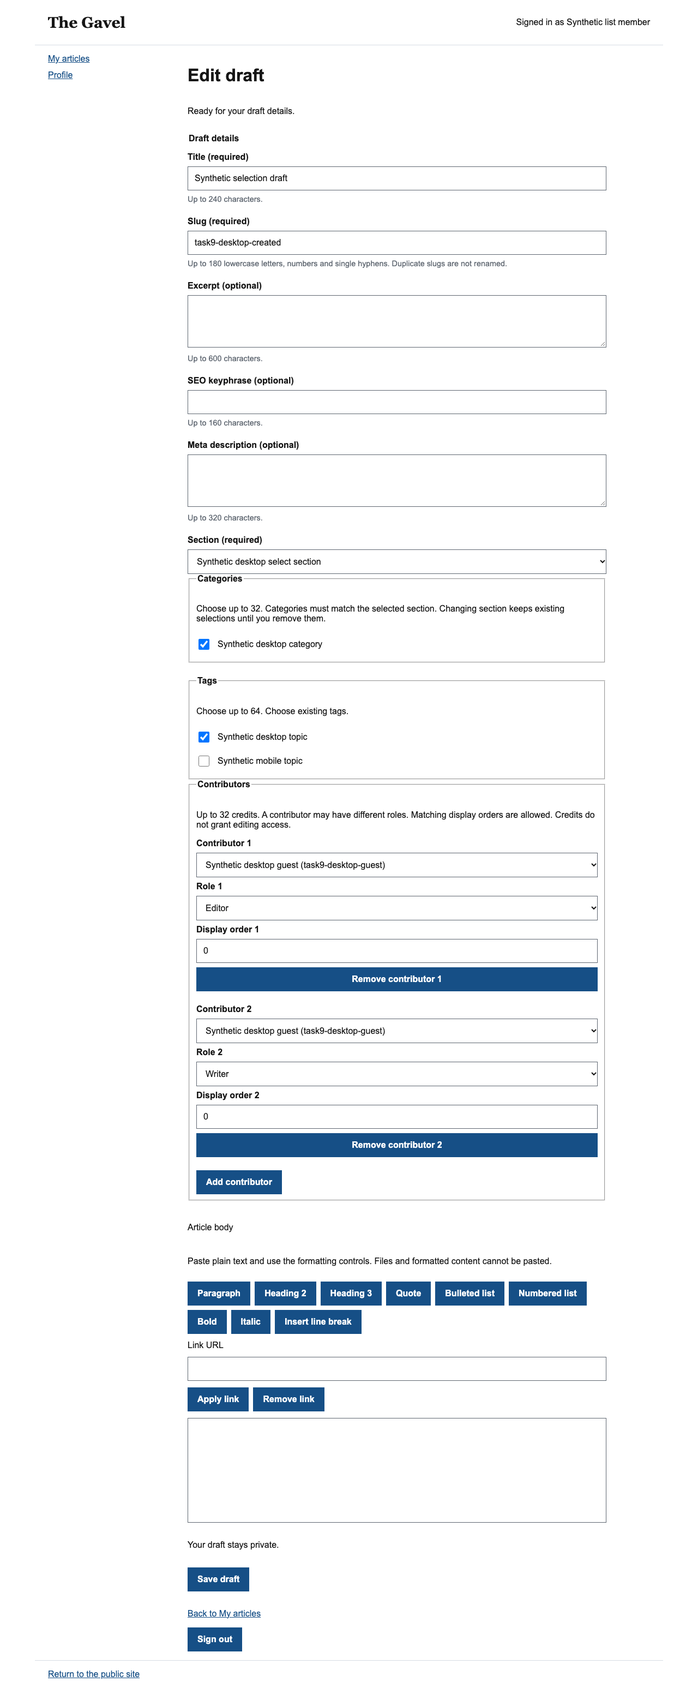
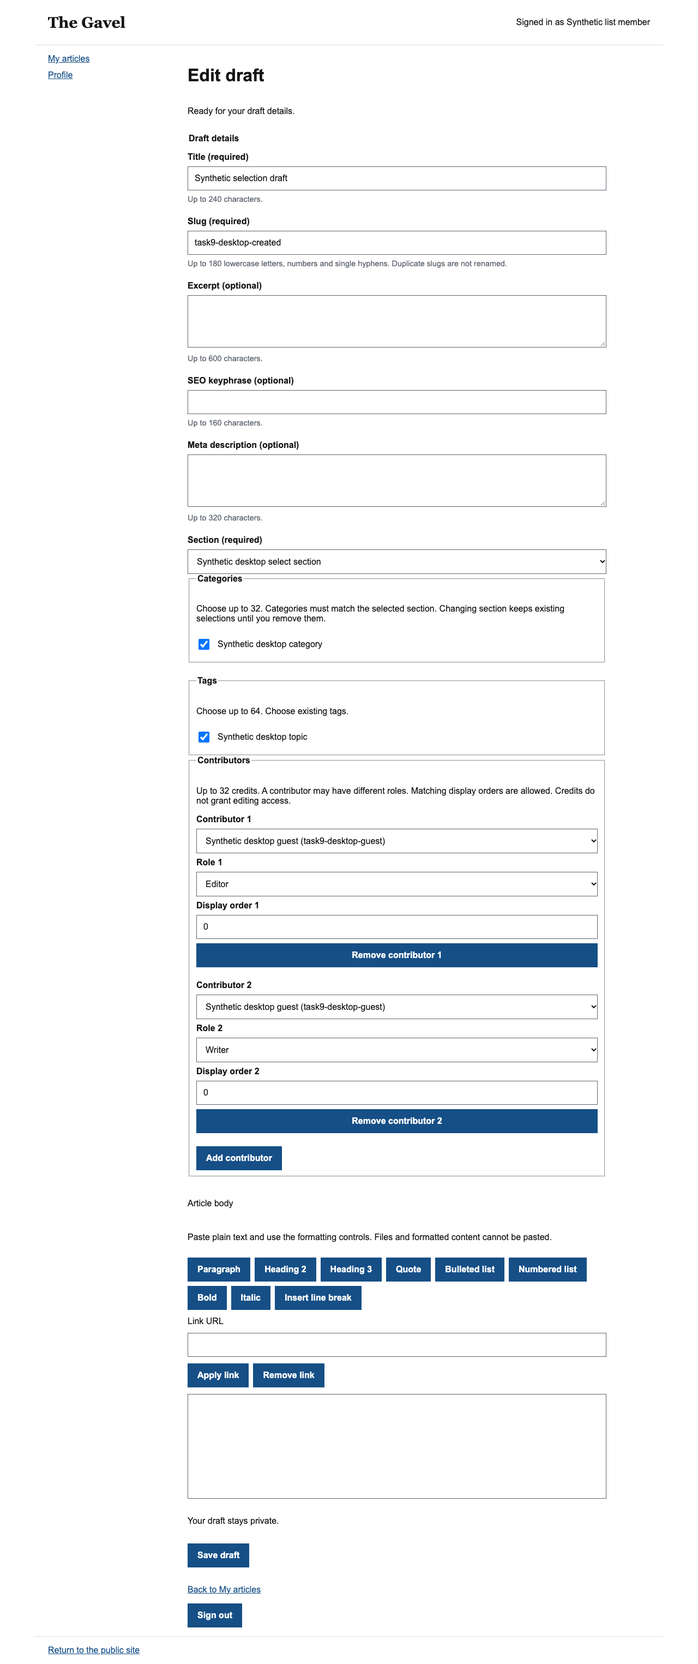
docs: record draft selection behavior and verification

Changed region(s): [[0.25, 0.0623, 0.875, 0.841], [0.2812, 0.9033, 0.375, 0.9656], [0.0625, 0.0311, 0.125, 0.0623]]

diff --git a/docs/superpowers/plans/2026-10-27-task-nine-draft-selections.md b/docs/superpowers/plans/2026-10-27-task-nine-draft-selections.md
@@ -10,7 +10,7 @@
 
 **Spec:** [Accepted private-draft contract](../specs/2026-10-22-private-draft-workflow-design.md); [parent plan Task 9](2026-10-22-phase-three-private-drafts.md#task-9-taxonomy-and-contributor-selection).
 
-**Baseline:** GitHub main `ecf3d62`, including merged PR #23/editor head `01f1d9b`. Isolated worktree `/private/tmp/the-gavel-task9`, branch `feat/draft-association-selectors`. Planning only; implementation and fresh baseline tests have not started.
+**Baseline:** GitHub main `ecf3d62`, including merged PR #23/editor head `01f1d9b`. Isolated worktree `/private/tmp/the-gavel-task9`, branch `feat/draft-association-selectors`. Implementation and local verification complete; owner handoff review and hosted CI remain outstanding. See [verification](../../testing.md#phase-3-task-9-draft-association-selection).
 
 ## Global constraints
 
@@ -44,10 +44,10 @@ Routine implementation choices: no custom combobox; labels distinguish duplicate
 
 **Interfaces:** Export `loadDraftCategories(client:SupabaseClient<Database>,sectionId:string):Promise<DraftOptions["categories"]>` from the options owner and reuse it inside `loadDraftOptions`. Export server action `getDraftCategoriesAction(sectionId:string):Promise<{ok:true;categories:DraftOptions["categories"]}|{ok:false;code:"invalid_input"|"unavailable"}>`. Independently invoke the existing active-membership guard and cookie-scoped no-store client. Preserve auth redirects; return safe errors for ordinary read failures.
 
-- [ ] Write failing tests for invalid UUID, independent access guard, active category/parent filters, pagination beyond the API cap, safe query failures and unchanged initial no-section behavior.
-- [ ] Run `pnpm test -- src/lib/articles/draft-options src/lib/articles/draft-category-action`; expect failures for missing exports/action.
-- [ ] Extract the existing category query into the helper, implement the guarded action and run the same command; expect PASS.
-- [ ] Commit the boundary and tests together; document its read-only contract in `docs/api-contracts.md`.
+- [x] Write failing tests for invalid UUID, independent access guard, active category/parent filters, pagination beyond the API cap, safe query failures and unchanged initial no-section behavior.
+- [x] Run `pnpm test -- src/lib/articles/draft-options src/lib/articles/draft-category-action`; expect failures for missing exports/action.
+- [x] Extract the existing category query into the helper, implement the guarded action and run the same command; expect PASS.
+- [x] Commit the boundary and tests together; document its read-only contract in `docs/api-contracts.md`.
 
 ## Work package 2: controlled selection fields
 
@@ -55,10 +55,10 @@ Routine implementation choices: no custom combobox; labels distinguish duplicate
 
 **Interfaces:** `DraftTaxonomyFields({draft,options,errors,onChange})` consumes DraftInput, DraftOptions, Record<string,string> and `(next:DraftInput)=>void`. `DraftContributorFields({value,options,error,onChange})` consumes DraftInput["contributors"], DraftOptions["contributors"], optional error and complete-value change callback. `draftSelectionErrors(draft:DraftInput,options:DraftOptions):Record<string,string>` provides usability checks; existing validators/RPC remain authoritative.
 
-- [ ] Write failing tests for add/remove, exact caps and one over, duplicate IDs/profile-role pairs, wrong-section/unavailable selections, multiple roles, guest profiles, tied/invalid integer order and empty catalogs. Assert untouched fields/credits remain identical.
-- [ ] Run focused tests; expect missing modules/components to fail before implementation.
-- [ ] Implement native fieldsets/legends, labels, hints, associated errors and explicit removal controls; generic unavailable labels reveal no hidden catalog data. Add operations stop at caps; removal remains possible.
-- [ ] Run `pnpm test -- src/components/dashboard/draft-taxonomy-fields src/components/dashboard/draft-contributor-fields src/lib/articles/draft-selections`; expect PASS. Commit in focused field/helper increments.
+- [x] Write failing tests for add/remove, exact caps and one over, duplicate IDs/profile-role pairs, wrong-section/unavailable selections, multiple roles, guest profiles, tied/invalid integer order and empty catalogs. Assert untouched fields/credits remain identical.
+- [x] Run focused tests; expect missing modules/components to fail before implementation.
+- [x] Implement native fieldsets/legends, labels, hints, associated errors and explicit removal controls; generic unavailable labels reveal no hidden catalog data. Add operations stop at caps; removal remains possible.
+- [x] Run `pnpm test -- src/components/dashboard/draft-taxonomy-fields src/components/dashboard/draft-contributor-fields src/lib/articles/draft-selections`; expect PASS. Commit in focused field/helper increments.
 
 ## Work package 3: form and route integration
 
@@ -66,20 +66,20 @@ Routine implementation choices: no custom combobox; labels distinguish duplicate
 
 **Interfaces:** Preserve existing DraftForm and command-hook props. Add section-choice coordination inside the form; seed categories from initial options. Metadata fields show an unavailable current section as a generic selected option. The edit route renders the form for valid canonical bodies even with unavailable associations; read-only/unsupported/not-found guards remain unchanged.
 
-- [ ] Write RED tests for changing section without category removal, deliberate removal/reselection, rapid A→B→A responses, load failure/retry, no false initial dirtiness, unavailable-ID repair, retained values after save rejection and complete save payload.
-- [ ] Cover pending/uncertain field locking, caps/errors linked from summary, keyboard access and no-section behavior. Block only new submissions while catalog/selection feedback is unresolved; uncertain retries must still replay the original command.
-- [ ] Implement category-loading state with stale-response protection and no automatic mutation of selections. Integrate controlled fields, pre-submit usability feedback and safe retry UI.
-- [ ] Run `pnpm test -- src/components/dashboard/draft-form src/components/dashboard/draft-metadata-fields 'src/app/(dashboard)/dashboard/articles/[id]/page.test.tsx'`; expect PASS. Commit focused integration changes.
+- [x] Write RED tests for changing section without category removal, deliberate removal/reselection, rapid A→B→A responses, load failure/retry, no false initial dirtiness, unavailable-ID repair, retained values after save rejection and complete save payload.
+- [x] Cover pending/uncertain field locking, caps/errors linked from summary, keyboard access and no-section behavior. Block only new submissions while catalog/selection feedback is unresolved; uncertain retries must still replay the original command.
+- [x] Implement category-loading state with stale-response protection and no automatic mutation of selections. Integrate controlled fields, pre-submit usability feedback and safe retry UI.
+- [x] Run `pnpm test -- src/components/dashboard/draft-form src/components/dashboard/draft-metadata-fields 'src/app/(dashboard)/dashboard/articles/[id]/page.test.tsx'`; expect PASS. Commit focused integration changes.
 
 ## Work package 4: real journeys and handoff
 
 **Files:** Create `e2e/drafts/draft-selections.spec.ts`; extend `e2e/support/draft-list-fixture/draft-list-fixture.ts` only as necessary; update affected README, component/security/API/testing documentation and the parent Task 9 checkboxes.
 
-- [ ] Add synthetic, local-only desktop/mobile create→select→save→reopen and edit→repair→save journeys. Include section mismatch preservation, failed save retention, guest/multiple-role/tied-order credits, credited-author-B denial and administrator active-selection rules. Deactivate a fixture reference after options load and assert safe rejection with retained input.
-- [ ] Run the new browser cases against a production build; inspect desktop/mobile screenshots and keyboard behavior. Preserve fixture fingerprints and the populated baseline; do not reset the shared database.
-- [ ] Run `pnpm format:check`, `pnpm lint`, `pnpm typecheck`, `pnpm test`, `pnpm test:db`, `pnpm db:types:check`, `pnpm supabase db lint`, `pnpm test:draft-contract`, `pnpm build`, and `pnpm test:e2e -- e2e/drafts`. Expect each exit 0; record actual counts and any unavailable environment requirements.
-- [ ] Run unfiltered `pnpm audit --prod --audit-level=high` and `pnpm audit --audit-level=high`, plus `git diff --check`. Expect no blocking finding or whitespace error.
-- [ ] Review the whole Task 9 change with a fresh reviewer, fix important findings with observed regression tests, record evidence and outstanding human security/screen-reader review. Do not claim hosted CI, create/merge a PR or begin Task 10 as part of this handoff.
+- [x] Add synthetic, local-only desktop/mobile create→select→save→reopen and edit→repair→save journeys. Include section mismatch preservation, failed save retention, guest/multiple-role/tied-order credits, credited-author-B denial and administrator active-selection rules. Deactivate a fixture reference after options load and assert safe rejection with retained input.
+- [x] Run the new browser cases against a production build; inspect desktop/mobile screenshots and keyboard behavior. Preserve fixture fingerprints and the populated baseline; do not reset the shared database.
+- [x] Run `pnpm format:check`, `pnpm lint`, `pnpm typecheck`, `pnpm test`, `pnpm test:db`, `pnpm db:types:check`, `pnpm supabase db lint`, `pnpm test:draft-contract`, `pnpm build` through Playwright’s configured webServer, and `pnpm exec playwright test` (all browser suites). Expect each exit 0; record actual counts and any unavailable environment requirements.
+- [x] Run unfiltered `pnpm audit --prod --audit-level=high` and `pnpm audit --audit-level=high`, plus `git diff --check`. Expect no blocking finding or whitespace error.
+- [x] Review the whole Task 9 change with a fresh reviewer, fix important findings with observed regression tests, record evidence and outstanding human security/screen-reader review. Do not claim hosted CI, create/merge a PR or begin Task 10 as part of this handoff.
 
 ## Acceptance and rollback
 

diff --git a/docs/api-contracts.md b/docs/api-contracts.md
@@ -1,6 +1,6 @@
 # API contracts
 
-Status: Foundation access/session interfaces, Phase 2 private content/history storage and Phase 3 private draft queries/actions implemented; association selectors, advanced reconciliation and publishing remain planned.
+Status: Foundation access/session interfaces, Phase 2 private content/history storage and Phase 3 private draft queries/actions implemented; draft association selectors are implemented; advanced reconciliation and publishing remain planned.
 
 ## Style and ownership
 
@@ -107,7 +107,7 @@ Task 5 implements the following interfaces in `src/lib/articles/`. The [accepted
 
 - `draft-queries/draft-queries.ts`: `getMyArticlesPage({cursor?,pageSize?}) -> ArticlePage` defaults to 20, accepts 1–50, and always filters the verified caller's profile, including administrators. Items contain only id/title/slug/status/sectionId/version/updatedAt. `nextCursor` is null or an opaque strict version-one UTC timestamp/UUID cursor ordered by `(updated_at DESC,id DESC)`, preserving database microseconds. The cursor supplies continuation, never authority.
 - `getDraftDetail(articleId) -> DraftDetailResult`: one embedded read loads the article and associations under RLS. Authors also receive an explicit owner filter; administrators retain their existing detail authority. The discriminant `kind` is `editable`, `readOnly`, `unsupportedContent` or `notFound`. Only editable results contain a validated `DraftInput`, articleId/version/updatedAt and unavailable selection IDs. Read-only results contain status only; unsupported results contain no stored body. Missing and RLS-hidden records share `notFound`.
-- `getDraftOptions(sectionId?) -> DraftOptions`: active sections, categories under the selected active parent, existing tags and active contributor profiles. Explicit active filters apply even to administrators. Catalogs use stable ordered 500-row pages below the API row cap. No section means no category choices. Existing unavailable selection IDs remain in detail results for deliberate removal; the form will provide generic labels without wider grants.
+- `getDraftOptions(sectionId?) -> DraftOptions`: active sections, categories under the selected active parent, existing tags and active contributor profiles. Explicit active filters apply even to administrators. Catalogs use stable ordered 500-row pages below the API row cap. No section means no category choices. Existing unavailable selection IDs remain in detail results for deliberate removal; the form provides generic labels without wider grants.
 - Queries run at request time with the existing active-membership guard and cookie-scoped publishable-key client. The server client explicitly forces `cache: "no-store"`. Malformed inputs and read failures throw bounded safe errors; membership redirects propagate unchanged.
 - `draft-actions/draft-actions.ts`: `createDraftAction(CreateDraftCommand)` and `saveDraftAction(SaveDraftCommand)` return `DraftWriteResult`. Strict envelopes reject unknown/protected fields before auth/RPC. Each accepted attempt uses verified current access and one user-scoped RPC with the caller's original request UUID. Missing/ineligible access returns `forbidden`; access/transport uncertainty or malformed responses return `unavailable`. No new UUID or automatic application retry is generated. Only checked result fields are returned, preserving replay/no-op metadata.
 - Confirmed success revalidates `/dashboard` and the private `/dashboard/articles/<id>` path only. If revalidation fails after commit, the confirmed receipt still returns; a static private diagnostic includes only the request UUID. Request-time reads remain authoritative on refresh.
@@ -116,7 +116,7 @@ Task 5 implements the following interfaces in `src/lib/articles/`. The [accepted
 
 ## Implemented draft form adapter
 
-Task 7 adds `draftMetadataErrors` beside `checkDraftInput`, sharing the same metadata constraints for form feedback. The strict full-payload validator and database functions remain authoritative. The new form maps exactly empty optional metadata to NULL, never silently trims/renames a slug, and creates only with NULL body/empty associations. It submits the existing `CreateDraftCommand`; no transport or database interface changed. Its optional article/version prop uses the existing save command for later route reuse.
+Task 7 adds `draftMetadataErrors` beside `checkDraftInput`, sharing the same metadata constraints for form feedback. The strict full-payload validator and database functions remain authoritative. The new form maps exactly empty optional metadata to NULL, never silently trims/renames a slug, and initially used NULL body/empty associations; Tasks 8–9 add body and association input through the same full-payload contract. It submits the existing `CreateDraftCommand`; no transport or database interface changed. Its optional article/version prop uses the existing save command for later route reuse.
 
 Basic UI command state retains the submitted payload/request UUID until a success is confirmed. A later authorization or other failure cannot resolve an earlier unknown result, so those retries remain locked to the original command. A first definitive failure allows correction/new UUID. Confirmed creation opens the private edit route and locks the form during that transition. Edit-in-flight/conflict reconciliation remains Task 10; see [current form boundaries](component-hierarchy.md#implemented-new-draft-form).
 
@@ -126,7 +126,7 @@ Task 8 implements `toEditorDocument(DraftDocument|null)` and `fromEditorDocument
 
 `DraftEditor({value,onChange,onError,disabled})` is client-only, controlled through canonical values, with no callback on initial NULL load. Delayed echoes of emitted document objects cannot replace newer native edits; fresh external document values still replace the editor. The controller snapshots its latest input at submit time, including updates before React renders. Body errors block form submission and remain associated with the textbox across rerenders. Plain-text paste validates the prospective complete body before dispatch; rich clipboard formats and drops are rejected explicitly. Native edits that fail conversion remain visible/unsaved until corrected and participate in basic unload warnings. No raw HTML import or renderer is exposed.
 
-`/dashboard/articles/[id]` consumes the existing guarded detail/options interfaces and reuses `DraftForm` with the current article/version. Confirmed creates open this route; confirmed edit saves update the controller's acknowledged version. Missing, read-only, unsupported and temporarily unavailable-selection states never expose a save operation. Server action/RPC signatures, direct-write denials and canonical limits are unchanged. Task 9 supplies selectors; Task 10 still supplies editable-in-flight/conflict/in-app-navigation reconciliation.
+`/dashboard/articles/[id]` consumes the existing guarded detail/options interfaces and reuses `DraftForm` with the current article/version. Confirmed creates open this route; confirmed edit saves update the controller's acknowledged version. Missing, read-only and unsupported states never expose a save operation. Task 9 allows deliberate repair of unavailable selections without discarding IDs. Existing draft mutation action/RPC signatures, direct-write denials and canonical limits are unchanged. Task 9 supplies selectors and usability validation; Task 10 still supplies editable-in-flight/conflict/in-app-navigation reconciliation.
 
 ## Implemented draft category choice action
 

diff --git a/docs/testing.md b/docs/testing.md
@@ -230,3 +230,21 @@ One full run timed out across new and unchanged flows on the busy local host. Da
 Review the [desktop editor](reviews/assets/phase-3-task8-desktop.png) and [mobile editor](reviews/assets/phase-3-task8-mobile.png). Original public-table/auth.identities fingerprints match after actor-scoped fixture/history/receipt/quota cleanup; only the known foundation synthetic auth.users metadata changes. No reset/migration was used. The lazy editor entry measured 377,675 raw/119,121 gzip JS bytes and 4,915 raw/1,461 gzip CSS bytes, excluding shared framework chunks.
 
 Human rich-content/security and screen-reader review remain outstanding. Only plain-text clipboard payloads are supported; other formats are explicitly blocked. Unavailable selections currently prevent editing until Task 9 supplies deliberate replacement/removal. Editable-in-flight/reconciliation and stronger SPA navigation warnings remain Task 10. No new manual tool installation, hosted project or real taxonomy decision was required. Real content still needs the existing active taxonomy/provider setup. Revert application/editor consumers to roll back; retain version-one canonical records and existing SQL controls, never broaden direct writes or destructively remove content/history.
+
+## Phase 3 Task 9: draft association selection
+
+Task 9 adds existing category/tag selectors and contributor profile/role/order fields to both create and edit. Unavailable selections remain visible until deliberate removal/replacement; section changes never silently clear categories. The guarded category-read action loads only active matching categories/parents, paginates and uses the existing no-store client. Stale responses cannot replace current choices. Pending/uncertain writes keep the existing exact-command lock/retry behavior.
+
+Fresh checks on Node 22.20.0 and pnpm 11.25.0:
+
+- `pnpm test`: 431 unit/component tests pass, including selection bounds, duplicate/missing/wrong-section IDs, guest/multiple-role/tied-order credits, stale category responses/retry, retained input and empty-active-section repair. Focused tests were run with `pnpm exec vitest run <paths>`; this pnpm version did not forward `pnpm test -- <paths>` as a filter.
+- `pnpm test:db`: all 1,075 SQL assertions pass, retaining role/ownership, association, active-reference and mutation denials.
+- `pnpm test:draft-contract`: all 216 canonical TypeScript/PostgreSQL parity tests pass. `pnpm db:types:check` matches; `pnpm supabase db lint` reports no schema errors.
+- `pnpm exec playwright test`: all 60 desktop/mobile cases pass with the original two workers and timeouts (58.2 seconds including configured production build/start). Ten new journeys cover create/save/reopen, guest/tied-role credits, deliberate section/category repair, author/admin post-load deactivation rejection with retained input, and credited non-owner denial. Keyboard checkbox interaction, focus traversal and mobile overflow checks pass. The existing keyboard journey now bounds traversal by actual form controls rather than assuming a fixed 20 Tab presses.
+- `pnpm format:check`, `pnpm lint`, `pnpm typecheck`, `git diff --check`, and unfiltered `pnpm audit --prod --audit-level=high` / `pnpm audit --audit-level=high` pass; both audits report no known vulnerabilities. Locked installation succeeded with `pnpm install --frozen-lockfile` after the offline store lacked a tarball.
+
+Fresh independent agent review found one Important issue: an empty active-section catalog disabled the entire repair form. An observed failing regression now proves metadata/removal controls remain usable while Save stays blocked. The full unit/browser suites pass after this fix. A separate observed regression corrected false unsaved warnings after canonical association sorting: successful locked saves acknowledge the canonical submitted input as well as its baseline. No unresolved agent-review findings remain; this does not substitute for human review.
+
+Inspect the [desktop selectors](reviews/assets/phase-3-task9-desktop.png) and [mobile selectors](reviews/assets/phase-3-task9-mobile.png). Images were visually inspected for responsive layout and readable native controls. Fixture setup uses reserved synthetic IDs, rejects collisions and cleans owned association rows before parent rows. No reset or migration was run. Before/after fingerprints cover public tables, private draft receipt/quota tables and auth.identities; only the established foundation auth.users test metadata is excluded. Private evidence remains in this task's ignored workspace for later integrated verification.
+
+No new dependency, schema, grant, public projection, auth model or lifecycle capability is introduced. Hosted CI has not been run for this branch. Human security/screen-reader review and real hosted/provider/taxonomy setup remain outstanding. Task 10 still owns editable-in-flight/conflict/navigation reconciliation; Task 11 owns the whole-slice upgrade/clean-install/handoff proof.

diff --git a/docs/architecture.md b/docs/architecture.md
@@ -115,10 +115,12 @@ The foundation uses ordinary dynamic rendering for authenticated routes with pri
 - Recoverable deployment and verified database restoration before launch.
 - Performance budgets and browser support will be finalized during implementation planning.
 
-The private database draft create/save operations are implemented behind explicit caller authorization, validation, versions, quotas, receipts and atomic revision/audit capture. The [API contracts](api-contracts.md#implemented-versioned-draft-saving) describe the callable boundaries. Server-side private article queries/actions are implemented with request-time guards, a cookie-scoped public-key client, explicit no-store fetches and checked payloads/results. Detail content and associations share one embedded PostgREST snapshot. The My Articles route now consumes the checked own-list query using server-rendered rows and native cursor links. Only pagination pending feedback requires a client component; safe read recovery also renders without JavaScript. The constrained client editor/edit route are implemented; association selectors and advanced reconciliation remain later tasks. Existing direct table writes stay denied.
+The private database draft create/save operations are implemented behind explicit caller authorization, validation, versions, quotas, receipts and atomic revision/audit capture. The [API contracts](api-contracts.md#implemented-versioned-draft-saving) describe the callable boundaries. Server-side private article queries/actions are implemented with request-time guards, a cookie-scoped public-key client, explicit no-store fetches and checked payloads/results. Detail content and associations share one embedded PostgREST snapshot. The My Articles route now consumes the checked own-list query using server-rendered rows and native cursor links. Only pagination pending feedback requires a client component; safe read recovery also renders without JavaScript. The constrained client editor/edit route are implemented; association selectors reuse these guarded boundaries, while advanced reconciliation remains Task 10. Existing direct table writes stay denied.
 
-The Task 7 new-draft page passes empty canonical draft values and eligible catalog choices to a small client form. Its controller calls the existing typed actions and keeps pending commands only in memory; it adds no client Supabase write path or global store. Inputs lock while a result is pending/unconfirmed, and retries preserve the original payload/UUID across access failures. Confirmed creates now open the private edit route. The editor reuses this form boundary; selectors remain Task 9.
+The Task 7 new-draft page passes empty canonical draft values and eligible catalog choices to a small client form. Its controller calls the existing typed actions and keeps pending commands only in memory; it adds no client Supabase write path or global store. Inputs lock while a result is pending/unconfirmed, and retries preserve the original payload/UUID across access failures. Confirmed creates now open the private edit route. The editor and Task 9 selectors reuse this form boundary.
 
 Task 8 pins 13 explicit MIT Tiptap packages to 3.32.0, including core/ProseMirror/React and only the required extension packages. The enabled schema contains exactly nine node types and three marks; no StarterKit/cloud/Pro/image/table/code extension is enabled. The canonical version-one body remains engine-independent. The adapter validates stored input before loading and removes only verified fixed native defaults; meaningful unsupported data is rejected.
 
 The native JSON byte walk has a separate 2 MiB allowance for fixed-attribute overhead; canonical body/request limits stay 1 MiB/1,100,000 bytes. A dense 2,000-link fixture verifies this distinction against the actual engine and PostgreSQL. The private form's lazy editor entry measures 377,675 raw JS bytes (119,121 gzip), plus 4,915 raw CSS bytes (1,461 gzip), in the inspected production build; these are entry-file sizes, excluding already-shared framework code. Editor loading is isolated to the private form.
+
+Task 9 adds controlled category/tag and contributor fields without a new dependency or schema. Section changes read active matching categories through a guarded, cookie-scoped server action; the form discards stale responses and keeps selected IDs until deliberate removal. Unavailable sections and associations are repairable with generic labels. Existing RPC validation still decides write eligibility, including references deactivated after loading.

diff --git a/README.md b/README.md
@@ -4,7 +4,7 @@ The Gavel is a security-first public publishing platform for Boston College stud
 
 ## Project status
 
-Architecture and MVP requirements are approved. The application shell, local Supabase membership boundary, server-side sign-in/access flow, protected My Articles dashboard, taxonomy schema, private articles, category/tag/contributor associations, protected revision/audit storage, authenticated draft-create/save database operations, and checked private server queries/actions are implemented. The new-draft metadata form is implemented. The constrained body editor and private edit route are implemented. Publishing, administrator management pages and hosted provider setup remain planned. Phase 2 data storage and automated verification are complete, with upgrade, clean-install, build/browser checks, and hosted CI evidence recorded. Owner handoff review and the separately required human maintainer review remain outstanding. See [integration evidence and remaining work](docs/testing.md#phase-2-integrated-verification). Documents describe intended behavior unless explicitly marked implemented.
+Architecture and MVP requirements are approved. The application shell, local Supabase membership boundary, server-side sign-in/access flow, protected My Articles dashboard, taxonomy schema, private articles, category/tag/contributor associations, protected revision/audit storage, authenticated draft-create/save database operations, and checked private server queries/actions are implemented. The new-draft metadata form is implemented. The constrained body editor, private edit route and taxonomy/contributor selectors are implemented. Publishing, administrator management pages and hosted provider setup remain planned. Phase 2 data storage and automated verification are complete, with upgrade, clean-install, build/browser checks, and hosted CI evidence recorded. Owner handoff review and the separately required human maintainer review remain outstanding. See [integration evidence and remaining work](docs/testing.md#phase-2-integrated-verification). Documents describe intended behavior unless explicitly marked implemented.
 
 The CI workflow is implemented and hosted execution is verified; human maintainer review remains outstanding. Production and full dependency audits run without exceptions; see [testing](docs/testing.md#ci-and-security-gates). See the [Phase 1 review and checklist](docs/reviews/phase-1-foundation.md) for evidence and remaining review work.
 
@@ -71,7 +71,7 @@ pnpm build
 
 Playwright is configured for desktop and mobile browser checks. Install its Chromium runtime once with `pnpm exec playwright install chromium`, start local Supabase, then run `pnpm test:e2e`. Browser tests prepare only fixed synthetic users in the local Docker project and verify access with JavaScript disabled.
 
-The [Phase 3 private-draft contract](docs/superpowers/specs/2026-10-22-private-draft-workflow-design.md) is accepted, including Tiptap, explicit Save, and controlled atomic mutations. The [implementation plan](docs/superpowers/plans/2026-10-22-phase-three-private-drafts.md) defines task boundaries and review checkpoints; Tasks 2–8 validation, atomic draft create/save, checked server queries/actions, My Articles and private create/edit with a constrained body editor are implemented and tested; association selectors and advanced save/navigation reconciliation remain planned. See [ADR 0007](docs/decisions/0007-private-draft-editor-and-mutations.md).
+The [Phase 3 private-draft contract](docs/superpowers/specs/2026-10-22-private-draft-workflow-design.md) is accepted, including Tiptap, explicit Save, and controlled atomic mutations. The [implementation plan](docs/superpowers/plans/2026-10-22-phase-three-private-drafts.md) defines task boundaries and review checkpoints; Tasks 2–9 validation, atomic draft create/save, checked server queries/actions, My Articles and private create/edit with a constrained body editor and association selectors are implemented; advanced save/navigation reconciliation remains planned. See [ADR 0007](docs/decisions/0007-private-draft-editor-and-mutations.md).
 
 ## Documentation index
 

diff --git a/docs/superpowers/plans/2026-10-22-phase-three-private-drafts.md b/docs/superpowers/plans/2026-10-22-phase-three-private-drafts.md
@@ -10,7 +10,7 @@
 
 **Spec:** [Accepted private-draft contract](../specs/2026-10-22-private-draft-workflow-design.md), approved by the owner on 2026-10-22. Existing [Phase 2 contract](../specs/2026-10-21-content-foundation-design.md), [API](../../api-contracts.md), [data](../../data-model.md), [security](../../security-and-permissions.md), [style](../../coding-style.md), and [testing](../../testing.md) remain authoritative for their existing boundaries.
 
-**Status:** Tasks 0 and 1 complete as documentation/baseline work. Tasks 2–8 validation, controlled draft writes, private queries, listing/create and constrained body editing are complete. Tasks 9–11 are not implemented. The owner requested native planning/execution followed by task-completion notifications and review checkpoints; preserve that approach. This plan refines the accepted work packages without approving any extra product scope.
+**Status:** Tasks 0 and 1 complete as documentation/baseline work. Tasks 2–9 validation, controlled draft writes, private queries, listing/create, constrained body editing and association selection are complete. Tasks 10–11 are not implemented. The owner requested native planning/execution followed by task-completion notifications and review checkpoints; preserve that approach. This plan refines the accepted work packages without approving any extra product scope.
 
 ## Global constraints
 
@@ -182,9 +182,11 @@ Remove Task 8's temporary unavailable-selection route gate only when deliberate 
 
 **Interfaces:** Controlled fields consume the corresponding DraftInput arrays and DraftOptions; changes emit the complete bounded selection value to the form, never a new tag/profile request.
 
-- [ ] RED tests for active permitted IDs, 32/64/32 caps, explicit removal/reselection on section change, unavailable existing IDs, duplicate rejection, multiple contributor roles/order ties and guest profiles. Real credited B still cannot mutate A. Failed saves retain selections and return safe field feedback.
-- [ ] Implement existing-ID selectors and deliberate same-section category confirmation; do not silently remove and save categories. Admins follow the same active-selection rule; no expanded catalog grants or management UI. Derive authority only in the existing action/RPC path.
-- [ ] GREEN component/unit, SQL association/mutation regressions and desktop/mobile selector/save round trips. Commit `feat: select draft taxonomy and contributor credits`.
+- [x] RED tests for active permitted IDs, 32/64/32 caps, explicit removal/reselection on section change, unavailable existing IDs, duplicate rejection, multiple contributor roles/order ties and guest profiles. Real credited B still cannot mutate A. Failed saves retain selections and return safe field feedback.
+- [x] Implement existing-ID selectors and deliberate same-section category confirmation; do not silently remove and save categories. Admins follow the same active-selection rule; no expanded catalog grants or management UI. Derive authority only in the existing action/RPC path.
+- [x] GREEN component/unit, SQL association/mutation regressions and desktop/mobile selector/save round trips. Commit `feat: select draft taxonomy and contributor credits`.
+
+Task 9 completion: [verification and screenshots](../../testing.md#phase-3-task-9-draft-association-selection). The [approved subplan](2026-10-27-task-nine-draft-selections.md) records native execution boundaries. Existing-ID selectors, deliberate unavailable-reference repair and stale category-read protection are implemented without schema, grant or dependency changes. Owner checkpoint before planning Task 10.
 
 ### Task 10: complete save/conflict/navigation interaction
 

diff --git a/docs/component-hierarchy.md b/docs/component-hierarchy.md
@@ -118,6 +118,12 @@ Native Back navigation has a best-effort unload warning for dirty/pending work. 
 
 Task 8 adds `DraftEditor`/`DraftToolbar` with owned CSS/tests and a small prospective-paste helper. `DraftForm` dynamically loads the editor with SSR disabled; Tiptap also uses `immediatelyRender:false`. Loading NULL presents an empty editing surface without converting the stored NULL or marking the form dirty. Successful creates open the edit route; confirmed edit saves retain the acknowledged version for subsequent saves.
 
-The edit route independently guards membership and uses the checked snapshot query. Missing/cross-owner IDs share not-found; published/archived and unsupported legacy bodies expose no save controls. Existing unavailable selections currently show generic IDs with no edit form, preserving data until Task 9 implements deliberate replacement/removal. This is an interim gate, not an automatic cleanup.
+The edit route independently guards membership and uses the checked snapshot query. Missing/cross-owner IDs share not-found; published/archived and unsupported legacy bodies expose no save controls. Task 9 replaces the temporary unavailable-selection route gate with deliberate repair controls. Existing IDs remain visible with generic labels; unavailable section/category/tag/profile choices must be replaced or removed before saving.
 
 Only paragraph, H2/H3, quote, ordered/bulleted list, hard break, bold, italic and safe links are enabled. Native format translation belongs to `draft-document/`; engine types remain inside that boundary and editor/toolbar components. Only plain-text clipboard payloads are accepted. HTML, files, other rich MIME types and drops are explicitly blocked before parsing; plain text becomes a bounded model whose full prospective body validates before dispatch. Invalid native edits block saving, expose associated body errors and retain best-effort unload protection.
+
+## Implemented draft association selectors
+
+`DraftTaxonomyFields` owns native category/tag checkbox groups; `DraftContributorFields` owns profile, writer/editor/creative role and integer display-order controls. Both are controlled by the existing DraftForm, with owned CSS/tests and no global state. They expose empty catalog, limits, unavailable selections and linked error feedback. Guest profiles and tied orders are supported; credits confer no edit permission.
+
+The form's category-loading hook keeps initial server choices, loads choices after section changes, ignores stale responses and exposes a retry control. Selected category IDs are never automatically removed. Save is blocked while choices load/fail; exact uncertain write retries retain the original command. The edit route preserves unsupported/read-only guards while allowing deliberate association repair. A successful locked save acknowledges canonical selections in both input and baseline, avoiding a false unload warning after array sorting. Advanced in-flight/conflict/navigation interaction remains Task 10.

diff --git a/docs/security-and-permissions.md b/docs/security-and-permissions.md
@@ -205,3 +205,9 @@ Task 8 enables only the reviewed node/mark schema, validates stored canonical in
 Clipboard interception happens before Tiptap's parser. Only plain text is accepted; line/node allocation is bounded before model construction, and the prospective whole document validates before dispatch. HTML/files/other rich formats and drops are explicitly rejected. Links reuse the accepted URL validator, have application-fixed target/rel, disable automatic linking/click navigation and fetch no previews. Body errors block saves, expose accessible associations and preserve best-effort native unload warnings, including native edits not present in the controller's last valid body.
 
 The former CI advisory exception is retired after upstream withdrawal; production/full audits are unfiltered and clean. Human rich-content/security and screen-reader review remain outstanding; automated/agent review does not substitute. Advanced SPA navigation/reconciliation remains Task 10; no autosave or persistent recovery is claimed.
+
+## Implemented draft association selection surface
+
+Task 9 selects only existing eligible catalog IDs and never grants contributor edit authority. The category-read action independently guards active membership, validates its section UUID and restricts active categories/parents even for administrators. Hidden labels are not fetched for unavailable references. New selections pass client usability checks and the existing strict action/RPC validators; references deactivated after loading still fail at the authoritative mutation boundary with input retained. Direct writes, ownership, authentication, schema and grants remain unchanged.
+
+Section changes retain categories until deliberate removal/replacement. Stale category responses cannot replace current choices, failed reads expose retry, and pending/uncertain writes keep fields locked with the original retry payload. No new private draft persistence or logging is added. Human security/screen-reader review remains outstanding.
